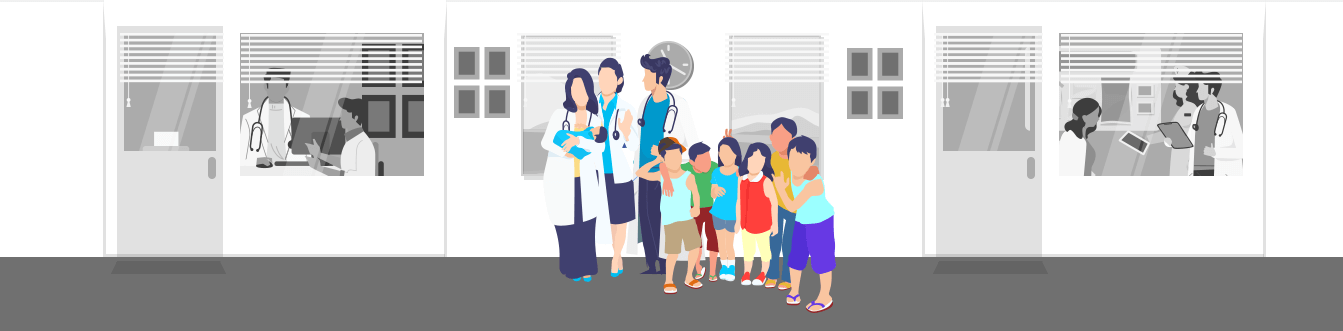
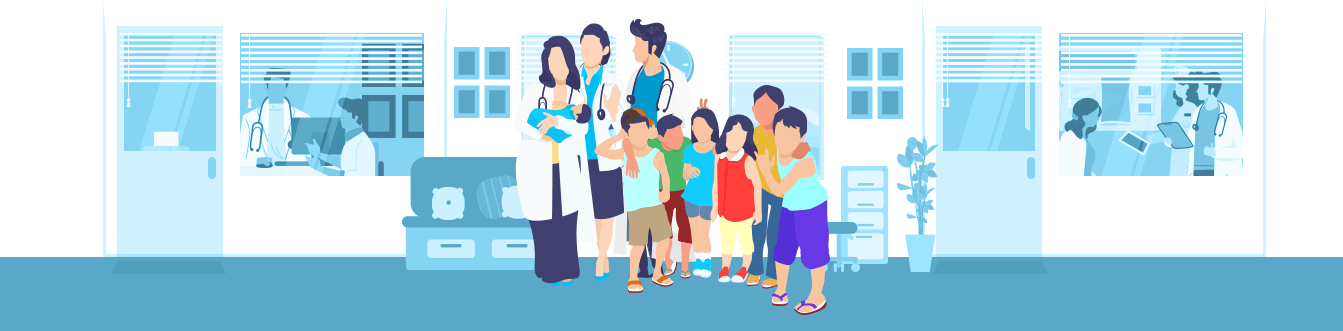
refactor: replace multispecialty and csr usp images

diff --git a/src/components/commons/usp.vue b/src/components/commons/usp.vue
@@ -28,7 +28,7 @@
         div(v-show="!isImageLoaded").white.empty-image-container
     div.offset-container(
         v-show="isImageLoaded"
-        :class="[{'usp-offset-alt-blue-color' : altBlueRoutes.includes(this.$route.name)}, {'usp-offset-grey' : this.$route.name === 'csr'}]")
+        :class="{'usp-offset-alt-blue-color' : altBlueRoutes.includes(this.$route.name)}")
 </template>
 
 <script>
@@ -75,7 +75,7 @@ export default {
     return {
       isImageLoaded: false,
       // - Routes that use the alternative blue color for USP
-      altBlueRoutes: ['home', 'features', 'our-story']
+      altBlueRoutes: ['home', 'features', 'our-story', 'csr']
     };
   },
   methods: {
